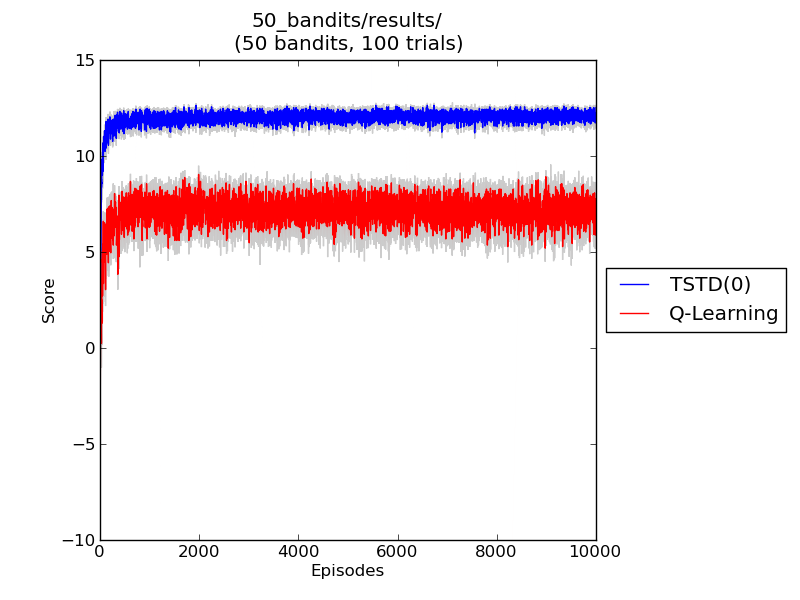
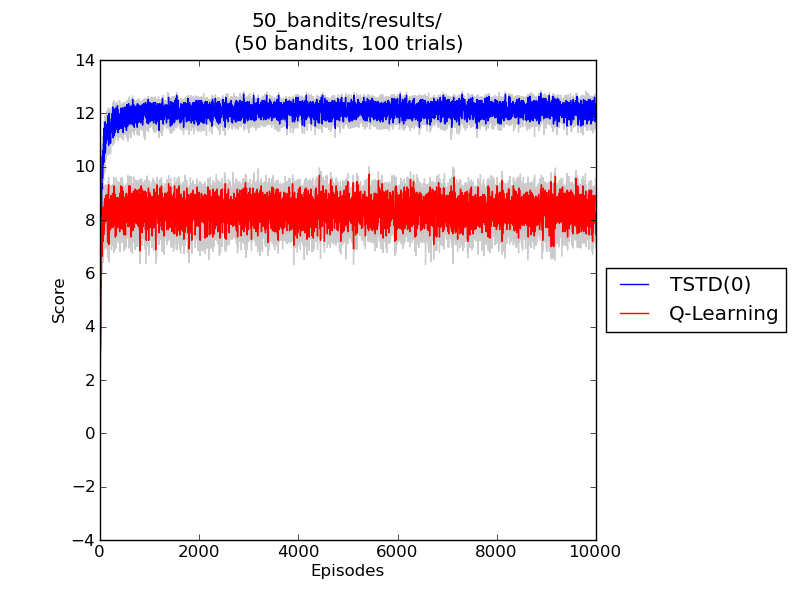
Fixed Q-Learning and ran some additiona experiments

diff --git a/experiment.py b/experiment.py
@@ -12,6 +12,7 @@ if __name__ == "__main__":
     bandits = int(sys.argv[2])
     episodes = int(sys.argv[3])
     world = GridWorld(num_bandits = bandits)
+    """
     # TESTING WITH DETERMINISTIC WORLD
     world.bandits[UP].first = 1
     world.bandits[UP].second = 0
@@ -19,6 +20,7 @@ if __name__ == "__main__":
     world.bandits[RIGHT].second = 1
     world.bandits[DOWN].first = 0
     world.bandits[DOWN].second = 0
+    """
     agents = [tstd.TSTDAgent(bandits), qlearning.QAgent(bandits)]
     series = ['Episodes', 'TSTD(0)', 'Q-Learning']
     row = [0 for _ in range(len(agents)+1)]

diff --git a/qlearning.py b/qlearning.py
@@ -6,7 +6,7 @@ class QAgent(Agent):
     """
     A Q-Learning agent with optimistic initialization.
     """
-    def __init__(self, num_bandits, epsilon = 0.2, decrease_epsilon = True, alpha = 1, decrease_alpha = True, gamma = 1):
+    def __init__(self, num_bandits, epsilon = 0.1, decrease_epsilon = False, alpha = 0.05, decrease_alpha = False, gamma = 1):
         Agent.__init__(self, num_bandits)
         self.build_state_action_table()
         self.epsilon = epsilon
